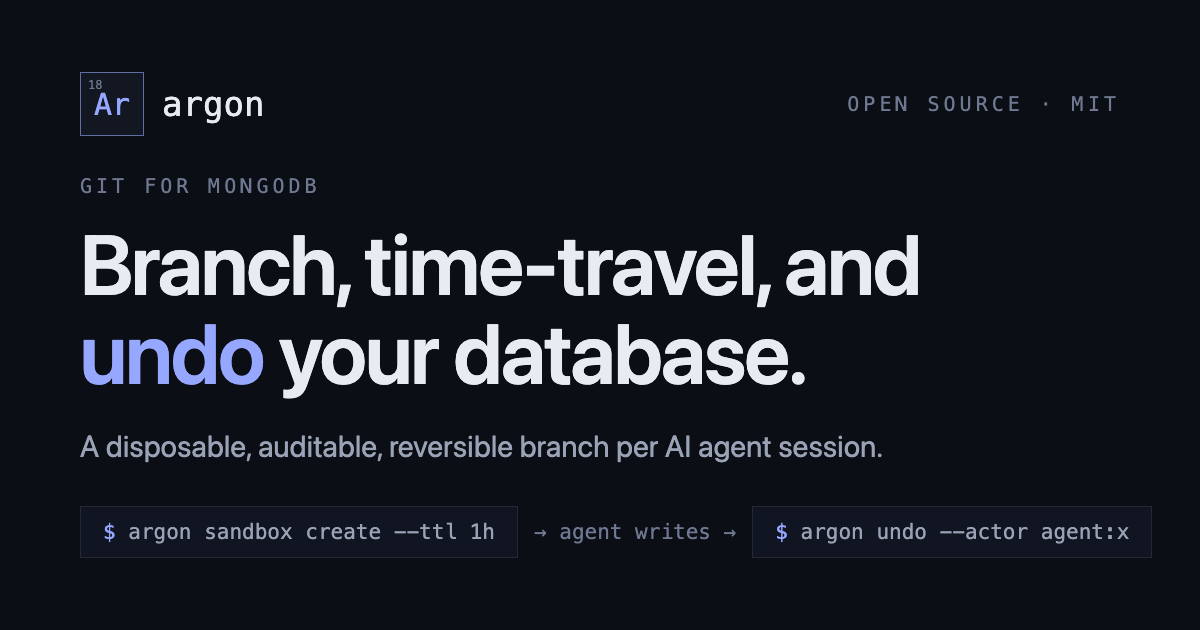
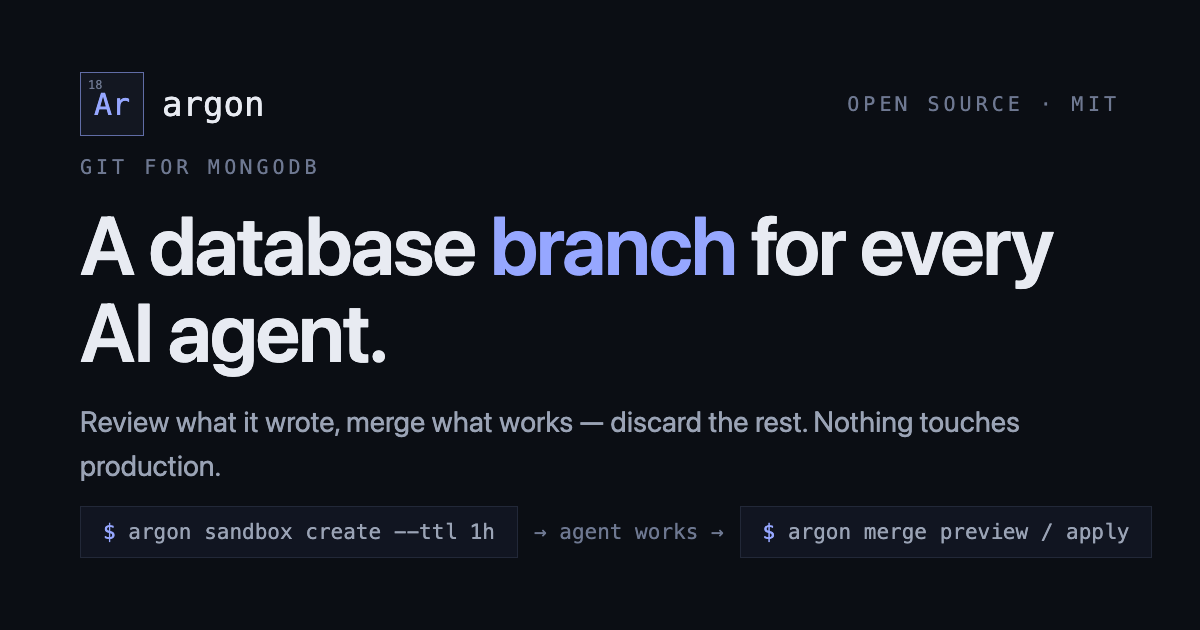
Reposition around branching + merge; demote undo to a safety net
MongoDB already has transaction rollback, so leading with "undo"
invited the wrong comparison and undersold the category claim. The
undifferentiated hook gives way to the thing MongoDB has no answer
for: a branch per agent, and merging the good work back.

- Hero subline and stat tile: merge is the payoff ("adopt an agent's
  work as a reviewed data PR"), undo trails as "or discard/undo".
- Hero demo loop: was fork → wreck → undo → restored (red → green).
  Now branch → agent proposes a sale → diff → merge to prod (amber
  proposal → green merged). The agent does useful work you adopt,
  not damage you revert.
- og:image: "A database branch for every AI agent" / "merge what
  works — discard the rest"; command pair is sandbox-create → merge.
- /agents: the flow graph climaxes on a merge landing on prod (not
  an undo node); guarantees lead with merge semantics; legend and
  subline follow. Undo remains, correctly framed as one revert path.
- Metadata descriptions rewritten branch/merge-forward.

Changed region(s): [[0.0617, 0.3317, 0.8942, 0.754], [0.555, 0.8143, 0.9558, 0.8746], [0.0617, 0.2413, 0.2775, 0.3016]]

diff --git a/app/components/HeroDemo.tsx b/app/components/HeroDemo.tsx
@@ -16,50 +16,51 @@ const heroGraph: FlowGraph = {
   ],
   nodes: [
     { id: 'm0', x: 70, y: 26, lane: 0, appearAt: 0 },
-    { id: 's0', x: 190, y: 72, lane: 1, sub: 'fork', appearAt: 0 },
-    { id: 's1', x: 330, y: 72, lane: 1, sub: '+3,214 writes', appearAt: 1 },
-    { id: 's2', x: 460, y: 72, lane: 1, sub: 'undo', appearAt: 2 },
+    { id: 's0', x: 200, y: 72, lane: 1, sub: 'branch', appearAt: 0 },
+    { id: 's1', x: 340, y: 72, lane: 1, sub: "agent's work", appearAt: 1 },
+    { id: 'm1', x: 470, y: 26, lane: 0, sub: 'merged', appearAt: 3 },
   ],
   edges: [
     { from: 'm0', to: 's0', appearAt: 0 },
     { from: 's0', to: 's1', appearAt: 1 },
-    { from: 's1', to: 's2', appearAt: 2 },
+    { from: 'm0', to: 'm1', appearAt: 3 },
+    { from: 's1', to: 'm1', appearAt: 3, curve: 'target' },
   ],
   steps: [
     { head: 's0', caption: '' },
     { head: 's1', caption: '' },
-    { head: 's2', caption: '' },
-    { head: 's2', caption: '' },
+    { head: 's1', caption: '' },
+    { head: 'm1', caption: '' },
   ],
 };
 
 const scenes = [
   {
     cmd: 'argon sandbox create -p prod --ttl 1h',
-    note: 'the agent gets a real MongoDB database — prod is never touched',
-    docs: 'clean',
+    note: 'the agent gets its own branch — a real MongoDB database, prod untouched',
+    state: 'base',
   },
   {
     cmd: 'python agent.py --db mongodb://…/argon_br_f81a',
-    note: 'it wrecks the data — every write attributed to agent:price-fixer',
-    docs: 'wrecked',
+    note: 'it does its work — every write attributed to agent:sale-bot',
+    state: 'proposed',
   },
   {
-    cmd: 'argon undo --actor agent:price-fixer',
-    note: 'one command reverts the entire session',
-    docs: 'wrecked',
+    cmd: 'argon diff -p prod -b sale-bot',
+    note: 'review exactly what changed before anything touches prod',
+    state: 'proposed',
   },
   {
-    cmd: '✓ 3,214 writes reverted · 0 conflicts',
-    note: 'back to the fork state — the undo itself is auditable history',
-    docs: 'clean',
+    cmd: 'argon merge apply -p prod -b sale-bot',
+    note: 'merge what works into prod — or discard the branch, or undo later',
+    state: 'merged',
   },
 ] as const;
 
 const docData = [
-  { id: 'p1', clean: 'price: 49', wrecked: 'price: 0' },
-  { id: 'p2', clean: 'price: 89', wrecked: 'price: 0' },
-  { id: 'p3', clean: 'price: 74', wrecked: 'price: 0' },
+  { id: 'p1', base: 'price: 49', after: 'price: 44' },
+  { id: 'p2', base: 'price: 89', after: 'price: 80' },
+  { id: 'p3', base: 'price: 74', after: 'price: 67' },
 ];
 
 const SCENE_MS = 2800;
@@ -76,7 +77,16 @@ export default function HeroDemo() {
   }, []);
 
   const s = scenes[scene];
-  const wrecked = s.docs === 'wrecked';
+  const state = s.state; // 'base' | 'proposed' | 'merged'
+  const showAfter = state !== 'base';
+  const chipClass =
+    state === 'merged'
+      ? 'border-emerald-400/40 text-emerald-400'
+      : state === 'proposed'
+        ? 'border-amber-400/40 text-amber-400'
+        : 'border-brand-edge text-brand-text-darker';
+  const badge =
+    state === 'merged' ? 'merged to prod' : state === 'proposed' ? "branch: agent's work" : 'branch: isolated';
 
   return (
     <div
@@ -105,8 +115,8 @@ export default function HeroDemo() {
 
       {/* command */}
       <div className="border-b border-brand-edge px-4 py-3 font-mono text-[13px]">
-        <p className={scene === 3 ? 'text-emerald-400' : 'text-brand-text'}>
-          {scene !== 3 && <span className="select-none text-brand-muted">$ </span>}
+        <p className="text-brand-text">
+          <span className="select-none text-brand-muted">$ </span>
           {s.cmd}
         </p>
         <p className="mt-1 text-xs text-brand-muted">{s.note}</p>
@@ -117,17 +127,13 @@ export default function HeroDemo() {
         {docData.map((d) => (
           <span
             key={d.id}
-            className={`border px-2.5 py-1 font-mono text-xs transition-colors duration-500 ${
-              wrecked
-                ? 'border-red-400/40 text-red-400'
-                : 'border-brand-edge text-brand-text-darker'
-            }`}
+            className={`border px-2.5 py-1 font-mono text-xs transition-colors duration-500 ${chipClass}`}
           >
-            {d.id} · {wrecked ? d.wrecked : d.clean}
+            {d.id} · {showAfter ? d.after : d.base}
           </span>
         ))}
         <span className="ml-auto self-center font-mono text-[10px] uppercase tracking-widest text-brand-muted">
-          {wrecked ? 'sandbox: damaged' : 'sandbox: clean'}
+          {badge}
         </span>
       </div>
     </div>

diff --git a/app/agents/page.tsx b/app/agents/page.tsx
@@ -12,17 +12,20 @@ const flow: FlowGraph = {
     { name: 'eval run', y: 140 },
   ],
   nodes: [
-    { id: 'm0', x: 130, y: 32, lane: 0, sub: 'LSN 8112', appearAt: 0 },
+    { id: 'm0', x: 130, y: 32, lane: 0, sub: 'prod', appearAt: 0 },
     { id: 'pin', x: 130, y: 10, lane: 2, sub: 'pin: eval-2026-07', appearAt: 0, pin: true },
-    { id: 's0', x: 330, y: 88, lane: 1, sub: '1 · fork — ttl 1h', appearAt: 0 },
-    { id: 's1', x: 530, y: 88, lane: 1, sub: '2 · agent writes', appearAt: 0 },
-    { id: 's2', x: 730, y: 88, lane: 1, sub: '3 · undo', appearAt: 0 },
-    { id: 'e0', x: 530, y: 140, lane: 2, sub: '4 · fork from pin — identical input', appearAt: 0 },
+    { id: 's0', x: 300, y: 88, lane: 1, sub: '1 · branch — ttl 1h', appearAt: 0 },
+    { id: 's1', x: 490, y: 88, lane: 1, sub: '2 · agent writes', appearAt: 0 },
+    { id: 's2', x: 680, y: 88, lane: 1, sub: '3 · review & merge', appearAt: 0 },
+    { id: 'm1', x: 860, y: 32, lane: 0, sub: '→ merged', appearAt: 0 },
+    { id: 'e0', x: 490, y: 140, lane: 2, sub: '4 · fork from pin — identical input', appearAt: 0 },
   ],
   edges: [
     { from: 'm0', to: 's0', appearAt: 0 },
     { from: 's0', to: 's1', appearAt: 0 },
     { from: 's1', to: 's2', appearAt: 0 },
+    { from: 'm0', to: 'm1', appearAt: 0 },
+    { from: 's2', to: 'm1', appearAt: 0, curve: 'target' },
     { from: 'm0', to: 'pin', appearAt: 0, ghost: true },
     { from: 'pin', to: 'e0', appearAt: 0 },
   ],
@@ -48,8 +51,8 @@ const integrations = [
 ];
 
 const guarantees = [
-  'Undo is per-actor and conflict-safe — documents someone else touched are reported, never clobbered',
-  'Undos are written as new history — auditable, and reversible in turn',
+  'Merge is reviewed and exactly-once — conflicts are reported, never resolved silently',
+  'Or discard the branch, or undo per-actor — everything an agent did is a revertible range',
   'Expired sandboxes reap themselves, storage included',
 ];
 
@@ -61,15 +64,15 @@ export default function AgentsPage() {
         Give your agents a database they can&apos;t destroy
       </h1>
       <p className="mt-4 max-w-2xl text-lg leading-8">
-        A disposable, auditable, undoable branch per agent session.
-        One picture, three ways to plug in.
+        A branch per agent session — review the diff, merge what works,
+        discard the rest. One picture, three ways to plug in.
       </p>
 
       {/* The loop, as a picture */}
       <div className="mt-10 border border-brand-edge bg-brand-surface">
         <div className="flex items-center justify-between border-b border-brand-edge px-4 py-2">
           <p className="font-mono text-xs text-brand-muted">
-            1 fork a sandbox · 2 agent writes, attributed · 3 undo the session · 4 pinned evals
+            1 branch off prod · 2 agent writes, attributed · 3 review &amp; merge · 4 pinned evals
           </p>
           <Link href="/demo" className="shrink-0 font-mono text-xs text-brand-primary hover:underline">
             step through it live →

diff --git a/app/page.tsx b/app/page.tsx
@@ -34,9 +34,9 @@ export default function HomePage() {
               built for AI agents
             </h1>
             <p className="mt-6 max-w-xl text-lg leading-8">
-              Every agent session gets a disposable branch of your database.
-              Audit what it wrote, merge what works — and undo the rest with
-              one command.
+              Give every AI agent its own branch of your database. Review what
+              it wrote, merge what works — discard or undo the rest. Nothing
+              touches production.
             </p>
             <div className="mt-8 flex flex-wrap items-center gap-3">
               <a
@@ -119,8 +119,8 @@ export default function HomePage() {
                     label: 'of storage per branch — branches are metadata, not copies',
                   },
                   {
-                    stat: '1 command',
-                    label: 'to undo an entire agent session — conflicts reported, never clobbered',
+                    stat: 'diff → merge',
+                    label: 'adopt an agent’s work as a reviewed data PR — or undo it, per-actor',
                   },
                 ].map((item) => (
                   <div key={item.stat} className="bg-brand-dark p-6">

diff --git a/app/layout.tsx b/app/layout.tsx
@@ -11,21 +11,21 @@ export const metadata = {
   metadataBase: new URL('https://argonlabs.tech'),
   title: 'Argon — Git for MongoDB, Built for AI Agents',
   description:
-    'Open-source branching, time travel, and undo for MongoDB. Give every AI agent session a disposable branch — a real MongoDB database — audit every write, and revert anything.',
+    'Open-source branching and merge for MongoDB. Give every AI agent its own branch — a real MongoDB database — review what it wrote, and merge what works.',
   openGraph: {
     type: 'website',
     url: 'https://www.argonlabs.tech',
     siteName: 'Argon',
     title: 'Argon — Git for MongoDB, Built for AI Agents',
     description:
-      'Branching, time travel, and the undo button for MongoDB. Branches check out as real databases; every agent write is attributed and reversible.',
-    images: [{ url: '/og.png', width: 1200, height: 630, alt: 'Argon — Git for MongoDB, built for AI agents' }],
+      'Git-like branching and merge for MongoDB. A real database branch per AI agent — review the diff, merge what works, discard the rest.',
+    images: [{ url: '/og.png', width: 1200, height: 630, alt: 'Argon — a database branch for every AI agent' }],
   },
   twitter: {
     card: 'summary_large_image',
     title: 'Argon — Git for MongoDB, Built for AI Agents',
     description:
-      'Branching, time travel, and the undo button for MongoDB. A disposable, auditable, reversible branch per AI agent session.',
+      'Git-like branching and merge for MongoDB. A real database branch per AI agent — review the diff, merge what works, discard the rest.',
     images: ['/og.png'],
   },
   icons: {